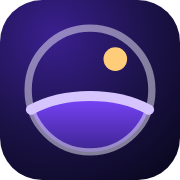
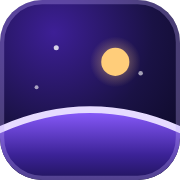
الإصدار 1.1.2: شعار جديد (كوكب يطل منه أفق وتشرق فوقه شمس)
- الشعار الجديد في شريط الموقع بدل الدائرة والخط.
- نفس الشعار في أيقونة المتصفح وأيقونة الجوال وصورة معاينة الرابط.
- ملف الشعار الأصلي tools/brand/logo.svg.

Claude-Session: https://claude.ai/code/session_018qLWKqeGc8R2Ny3TV4sAbf

diff --git a/index.html b/index.html
@@ -42,6 +42,7 @@ button{cursor:pointer}
 /* top bar */
 .top{position:sticky;top:env(safe-area-inset-top,0px);z-index:20;background:rgba(11,9,24,.9);backdrop-filter:blur(10px);-webkit-backdrop-filter:blur(10px);color:var(--sky-fg);border-bottom:1px solid var(--sky-line)}
 .top .wrap{display:flex;align-items:center;gap:18px;min-height:60px}
+.brand .logo{flex:none;display:block;border-radius:8px;box-shadow:0 0 14px rgba(150,110,255,.35)}
 .brand{display:flex;align-items:center;gap:10px;font-family:var(--f-display);font-weight:700;font-size:1.18rem;text-decoration:none;white-space:nowrap}
 .links{display:flex;gap:2px;margin-inline-start:auto;overflow-x:auto;scrollbar-width:none;min-width:0}
 .links::-webkit-scrollbar{display:none}
@@ -969,7 +970,7 @@ footer .ver{display:block;margin-top:6px;opacity:.85}
 <header class="top">
   <div class="wrap">
     <a class="brand" href="#home">
-      <svg width="26" height="26" viewBox="0 0 26 26" aria-hidden="true"><circle cx="13" cy="13" r="12" fill="none" stroke="#efebfa" stroke-opacity=".35"/><path d="M2 16.5c6-3 16-3 22 0" fill="none" stroke="#c4abff" stroke-width="2" stroke-linecap="round"/><circle cx="17.5" cy="8" r="1.6" fill="#ffcd7a"/></svg>
+      <svg class="logo" width="32" height="32" viewBox="0 0 64 64" aria-hidden="true"><defs><radialGradient id="lg-bg" cx="30%" cy="18%" r="100%"><stop offset="0" stop-color="#3d1f96"/><stop offset=".55" stop-color="#1a1245"/><stop offset="1" stop-color="#0b0822"/></radialGradient><linearGradient id="lg-pl" x1="0" y1="0" x2="0" y2="1"><stop offset="0" stop-color="#8b5cff"/><stop offset=".6" stop-color="#3b2296"/><stop offset="1" stop-color="#1b1150"/></linearGradient><radialGradient id="lg-gl"><stop offset="0" stop-color="#ffcd7a" stop-opacity=".55"/><stop offset="1" stop-color="#ffcd7a" stop-opacity="0"/></radialGradient><clipPath id="lg-cl"><rect width="64" height="64" rx="15"/></clipPath></defs><rect width="64" height="64" rx="15" fill="url(#lg-bg)"/><g clip-path="url(#lg-cl)"><circle cx="20" cy="17" r=".9" fill="#fff" opacity=".8"/><circle cx="50" cy="26" r=".8" fill="#fff" opacity=".6"/><circle cx="13" cy="31" r=".7" fill="#fff" opacity=".6"/><circle cx="41" cy="22" r="9" fill="url(#lg-gl)"/><circle cx="41" cy="22" r="5" fill="#ffcd7a"/><path d="M-2 47Q32 31 66 47V66H-2z" fill="url(#lg-pl)"/><path d="M-2 47Q32 31 66 47" fill="none" stroke="#e6dbff" stroke-width="2.4"/></g><rect x=".75" y=".75" width="62.5" height="62.5" rx="14.3" fill="none" stroke="#c4abff" stroke-opacity=".3" stroke-width="1.5"/></svg>
       أفق الذكاء
     </a>
     <nav class="links" aria-label="التنقل">
@@ -995,7 +996,7 @@ footer .ver{display:block;margin-top:6px;opacity:.85}
     <p class="copy">© 2026 تركي عبدالكريم الدغيمان وخالد يزيد العنزي. جميع الحقوق محفوظة. <a href="#about" id="rights-link">شروط الاستخدام</a></p>
     <p class="copy">بُني باستخدام Claude من Anthropic، والفكرة والتخطيط من الفريق. <a href="#about" id="built-link">كيف بُني الموقع؟</a></p>
     <small>المعلومات مبسطة لأغراض تعليمية، ومع كل معلومة رابط لمصدرها.</small>
-    <small class="ver">الإصدار 1.1.1 · آخر تحديث 20 نوفمبر 2026</small>
+    <small class="ver">الإصدار 1.1.2 · آخر تحديث 20 نوفمبر 2026</small>
   </div>
 </footer>
 

diff --git a/tools/src/ai-horizon.html b/tools/src/ai-horizon.html
@@ -43,6 +43,7 @@ button{cursor:pointer}
 /* top bar */
 .top{position:sticky;top:env(safe-area-inset-top,0px);z-index:20;background:rgba(11,9,24,.9);backdrop-filter:blur(10px);-webkit-backdrop-filter:blur(10px);color:var(--sky-fg);border-bottom:1px solid var(--sky-line)}
 .top .wrap{display:flex;align-items:center;gap:18px;min-height:60px}
+.brand .logo{flex:none;display:block;border-radius:8px;box-shadow:0 0 14px rgba(150,110,255,.35)}
 .brand{display:flex;align-items:center;gap:10px;font-family:var(--f-display);font-weight:700;font-size:1.18rem;text-decoration:none;white-space:nowrap}
 .links{display:flex;gap:2px;margin-inline-start:auto;overflow-x:auto;scrollbar-width:none;min-width:0}
 .links::-webkit-scrollbar{display:none}
@@ -970,7 +971,7 @@ footer .ver{display:block;margin-top:6px;opacity:.85}
 <header class="top">
   <div class="wrap">
     <a class="brand" href="#home">
-      <svg width="26" height="26" viewBox="0 0 26 26" aria-hidden="true"><circle cx="13" cy="13" r="12" fill="none" stroke="#efebfa" stroke-opacity=".35"/><path d="M2 16.5c6-3 16-3 22 0" fill="none" stroke="#c4abff" stroke-width="2" stroke-linecap="round"/><circle cx="17.5" cy="8" r="1.6" fill="#ffcd7a"/></svg>
+      <svg class="logo" width="32" height="32" viewBox="0 0 64 64" aria-hidden="true"><defs><radialGradient id="lg-bg" cx="30%" cy="18%" r="100%"><stop offset="0" stop-color="#3d1f96"/><stop offset=".55" stop-color="#1a1245"/><stop offset="1" stop-color="#0b0822"/></radialGradient><linearGradient id="lg-pl" x1="0" y1="0" x2="0" y2="1"><stop offset="0" stop-color="#8b5cff"/><stop offset=".6" stop-color="#3b2296"/><stop offset="1" stop-color="#1b1150"/></linearGradient><radialGradient id="lg-gl"><stop offset="0" stop-color="#ffcd7a" stop-opacity=".55"/><stop offset="1" stop-color="#ffcd7a" stop-opacity="0"/></radialGradient><clipPath id="lg-cl"><rect width="64" height="64" rx="15"/></clipPath></defs><rect width="64" height="64" rx="15" fill="url(#lg-bg)"/><g clip-path="url(#lg-cl)"><circle cx="20" cy="17" r=".9" fill="#fff" opacity=".8"/><circle cx="50" cy="26" r=".8" fill="#fff" opacity=".6"/><circle cx="13" cy="31" r=".7" fill="#fff" opacity=".6"/><circle cx="41" cy="22" r="9" fill="url(#lg-gl)"/><circle cx="41" cy="22" r="5" fill="#ffcd7a"/><path d="M-2 47Q32 31 66 47V66H-2z" fill="url(#lg-pl)"/><path d="M-2 47Q32 31 66 47" fill="none" stroke="#e6dbff" stroke-width="2.4"/></g><rect x=".75" y=".75" width="62.5" height="62.5" rx="14.3" fill="none" stroke="#c4abff" stroke-opacity=".3" stroke-width="1.5"/></svg>
       أفق الذكاء
     </a>
     <nav class="links" aria-label="التنقل">
@@ -996,7 +997,7 @@ footer .ver{display:block;margin-top:6px;opacity:.85}
     <p class="copy">© 2026 تركي عبدالكريم الدغيمان وخالد يزيد العنزي. جميع الحقوق محفوظة. <a href="#about" id="rights-link">شروط الاستخدام</a></p>
     <p class="copy">بُني باستخدام Claude من Anthropic، والفكرة والتخطيط من الفريق. <a href="#about" id="built-link">كيف بُني الموقع؟</a></p>
     <small>المعلومات مبسطة لأغراض تعليمية، ومع كل معلومة رابط لمصدرها.</small>
-    <small class="ver">الإصدار 1.1.1 · آخر تحديث 20 نوفمبر 2026</small>
+    <small class="ver">الإصدار 1.1.2 · آخر تحديث 20 نوفمبر 2026</small>
   </div>
 </footer>
 

diff --git a/tools/brand/og.html b/tools/brand/og.html
@@ -11,11 +11,9 @@ p{font-size:31px;line-height:1.6;color:#d8cff7;margin-top:8px}
 .chips span{font-size:23px;padding:10px 20px;border-radius:14px;background:rgba(255,255,255,.08);border:1px solid rgba(200,175,255,.32);color:#f4f1ff}
 .chips b{color:#ffcd7a}
 .url{position:absolute;left:80px;bottom:56px;font-size:28px;letter-spacing:.5px;color:#c3a6ff;direction:ltr;font-weight:700}
-.logo{position:absolute;left:96px;top:118px;width:330px;height:330px;filter:drop-shadow(0 0 40px rgba(170,130,255,.55))}
+.logo{position:absolute;left:100px;top:132px;width:300px;height:300px;filter:drop-shadow(0 0 44px rgba(170,130,255,.55))}
 </style></head><body><canvas id="c" width="1200" height="630"></canvas>
-<svg class="logo" viewBox="0 0 64 64"><defs><linearGradient id="g" x1="0" y1="0" x2="0" y2="1"><stop offset="0" stop-color="#8b5cff"/><stop offset=".55" stop-color="#3b2296"/><stop offset="1" stop-color="#160f40"/></linearGradient><radialGradient id="sk" cx="65%" cy="25%" r="80%"><stop offset="0" stop-color="#2c1d70"/><stop offset="1" stop-color="#120c34"/></radialGradient><clipPath id="lclip"><circle cx="32" cy="32" r="29"/></clipPath></defs>
-<circle cx="32" cy="32" r="29" fill="url(#sk)"/><g clip-path="url(#lclip)"><circle cx="18" cy="17" r=".5" fill="#fff"/><circle cx="26" cy="11" r=".4" fill="#fff" opacity=".8"/><circle cx="14" cy="27" r=".35" fill="#fff" opacity=".7"/><circle cx="50" cy="31" r=".4" fill="#fff" opacity=".7"/><circle cx="34" cy="20" r=".3" fill="#fff" opacity=".6"/><path d="M0 41c17-9 47-9 64 0V64H0z" fill="url(#g)"/></g>
-<circle cx="32" cy="32" r="29" fill="none" stroke="#efebfa" stroke-opacity=".5" stroke-width="1.1"/><path d="M4.5 40.6c16-8.3 39-8.3 55 0" fill="none" stroke="#e2d4ff" stroke-width="1.6" stroke-linecap="round"/><circle cx="43" cy="19" r="4.2" fill="#ffcd7a"/><circle cx="43" cy="19" r="7" fill="#ffcd7a" opacity=".18"/></svg>
+<svg class="logo" viewBox="0 0 64 64"><defs><radialGradient id="lg-bg" cx="30%" cy="18%" r="100%"><stop offset="0" stop-color="#3d1f96"/><stop offset=".55" stop-color="#1a1245"/><stop offset="1" stop-color="#0b0822"/></radialGradient><linearGradient id="lg-pl" x1="0" y1="0" x2="0" y2="1"><stop offset="0" stop-color="#8b5cff"/><stop offset=".6" stop-color="#3b2296"/><stop offset="1" stop-color="#1b1150"/></linearGradient><radialGradient id="lg-gl"><stop offset="0" stop-color="#ffcd7a" stop-opacity=".55"/><stop offset="1" stop-color="#ffcd7a" stop-opacity="0"/></radialGradient><clipPath id="lg-cl"><rect width="64" height="64" rx="15"/></clipPath></defs><rect width="64" height="64" rx="15" fill="url(#lg-bg)"/><g clip-path="url(#lg-cl)"><circle cx="20" cy="17" r=".9" fill="#fff" opacity=".8"/><circle cx="50" cy="26" r=".8" fill="#fff" opacity=".6"/><circle cx="13" cy="31" r=".7" fill="#fff" opacity=".6"/><circle cx="41" cy="22" r="9" fill="url(#lg-gl)"/><circle cx="41" cy="22" r="5" fill="#ffcd7a"/><path d="M-2 47Q32 31 66 47V66H-2z" fill="url(#lg-pl)"/><path d="M-2 47Q32 31 66 47" fill="none" stroke="#e6dbff" stroke-width="2.4"/></g><rect x=".75" y=".75" width="62.5" height="62.5" rx="14.3" fill="none" stroke="#c4abff" stroke-opacity=".3" stroke-width="1.5"/></svg>
 <div class="txt"><span class="badge">مشروع طلابي · متوسطة مجمع الملك سعود بن عبدالعزيز</span>
 <h1>أفق الذكاء</h1>
 <p>موسوعة عربية للفلك والفضاء والذكاء الاصطناعي</p>

diff --git a/tools/patches/patch24.py b/tools/patches/patch24.py
@@ -1,0 +1,12 @@
+# v1.1.2: new logo (planet horizon with rising sun) in the header; same art in favicon.svg, PNG icons and og.jpg (tools/brand).
+P='/home/claude/ai-horizon.html'
+s=open(P,encoding='utf-8').read()
+def rep(o,n):
+    global s
+    assert s.count(o)==1,o[:60]
+    s=s.replace(o,n)
+rep('<svg width="26" height="26" viewBox="0 0 26 26" aria-hidden="true"><circle cx="13" cy="13" r="12" fill="none" stroke="#efebfa" stroke-opacity=".35"/><path d="M2 16.5c6-3 16-3 22 0" fill="none" stroke="#c4abff" stroke-width="2" stroke-linecap="round"/><circle cx="17.5" cy="8" r="1.6" fill="#ffcd7a"/></svg>',
+    '<svg class="logo" width="32" height="32" viewBox="0 0 64 64" aria-hidden="true"><defs><radialGradient id="lg-bg" cx="30%" cy="18%" r="100%"><stop offset="0" stop-color="#3d1f96"/><stop offset=".55" stop-color="#1a1245"/><stop offset="1" stop-color="#0b0822"/></radialGradient><linearGradient id="lg-pl" x1="0" y1="0" x2="0" y2="1"><stop offset="0" stop-color="#8b5cff"/><stop offset=".6" stop-color="#3b2296"/><stop offset="1" stop-color="#1b1150"/></linearGradient><radialGradient id="lg-gl"><stop offset="0" stop-color="#ffcd7a" stop-opacity=".55"/><stop offset="1" stop-color="#ffcd7a" stop-opacity="0"/></radialGradient><clipPath id="lg-cl"><rect width="64" height="64" rx="15"/></clipPath></defs><rect width="64" height="64" rx="15" fill="url(#lg-bg)"/><g clip-path="url(#lg-cl)"><circle cx="20" cy="17" r=".9" fill="#fff" opacity=".8"/><circle cx="50" cy="26" r=".8" fill="#fff" opacity=".6"/><circle cx="13" cy="31" r=".7" fill="#fff" opacity=".6"/><circle cx="41" cy="22" r="9" fill="url(#lg-gl)"/><circle cx="41" cy="22" r="5" fill="#ffcd7a"/><path d="M-2 47Q32 31 66 47V66H-2z" fill="url(#lg-pl)"/><path d="M-2 47Q32 31 66 47" fill="none" stroke="#e6dbff" stroke-width="2.4"/></g><rect x=".75" y=".75" width="62.5" height="62.5" rx="14.3" fill="none" stroke="#c4abff" stroke-opacity=".3" stroke-width="1.5"/></svg>')
+rep('.brand{display:flex;','.brand .logo{flex:none;display:block;border-radius:8px;box-shadow:0 0 14px rgba(150,110,255,.35)}\n.brand{display:flex;')
+rep('<small class="ver">الإصدار 1.1.1 · آخر تحديث 20 نوفمبر 2026</small>','<small class="ver">الإصدار 1.1.2 · آخر تحديث 20 نوفمبر 2026</small>')
+open(P,'w',encoding='utf-8').write(s);print('patch24 ok')
